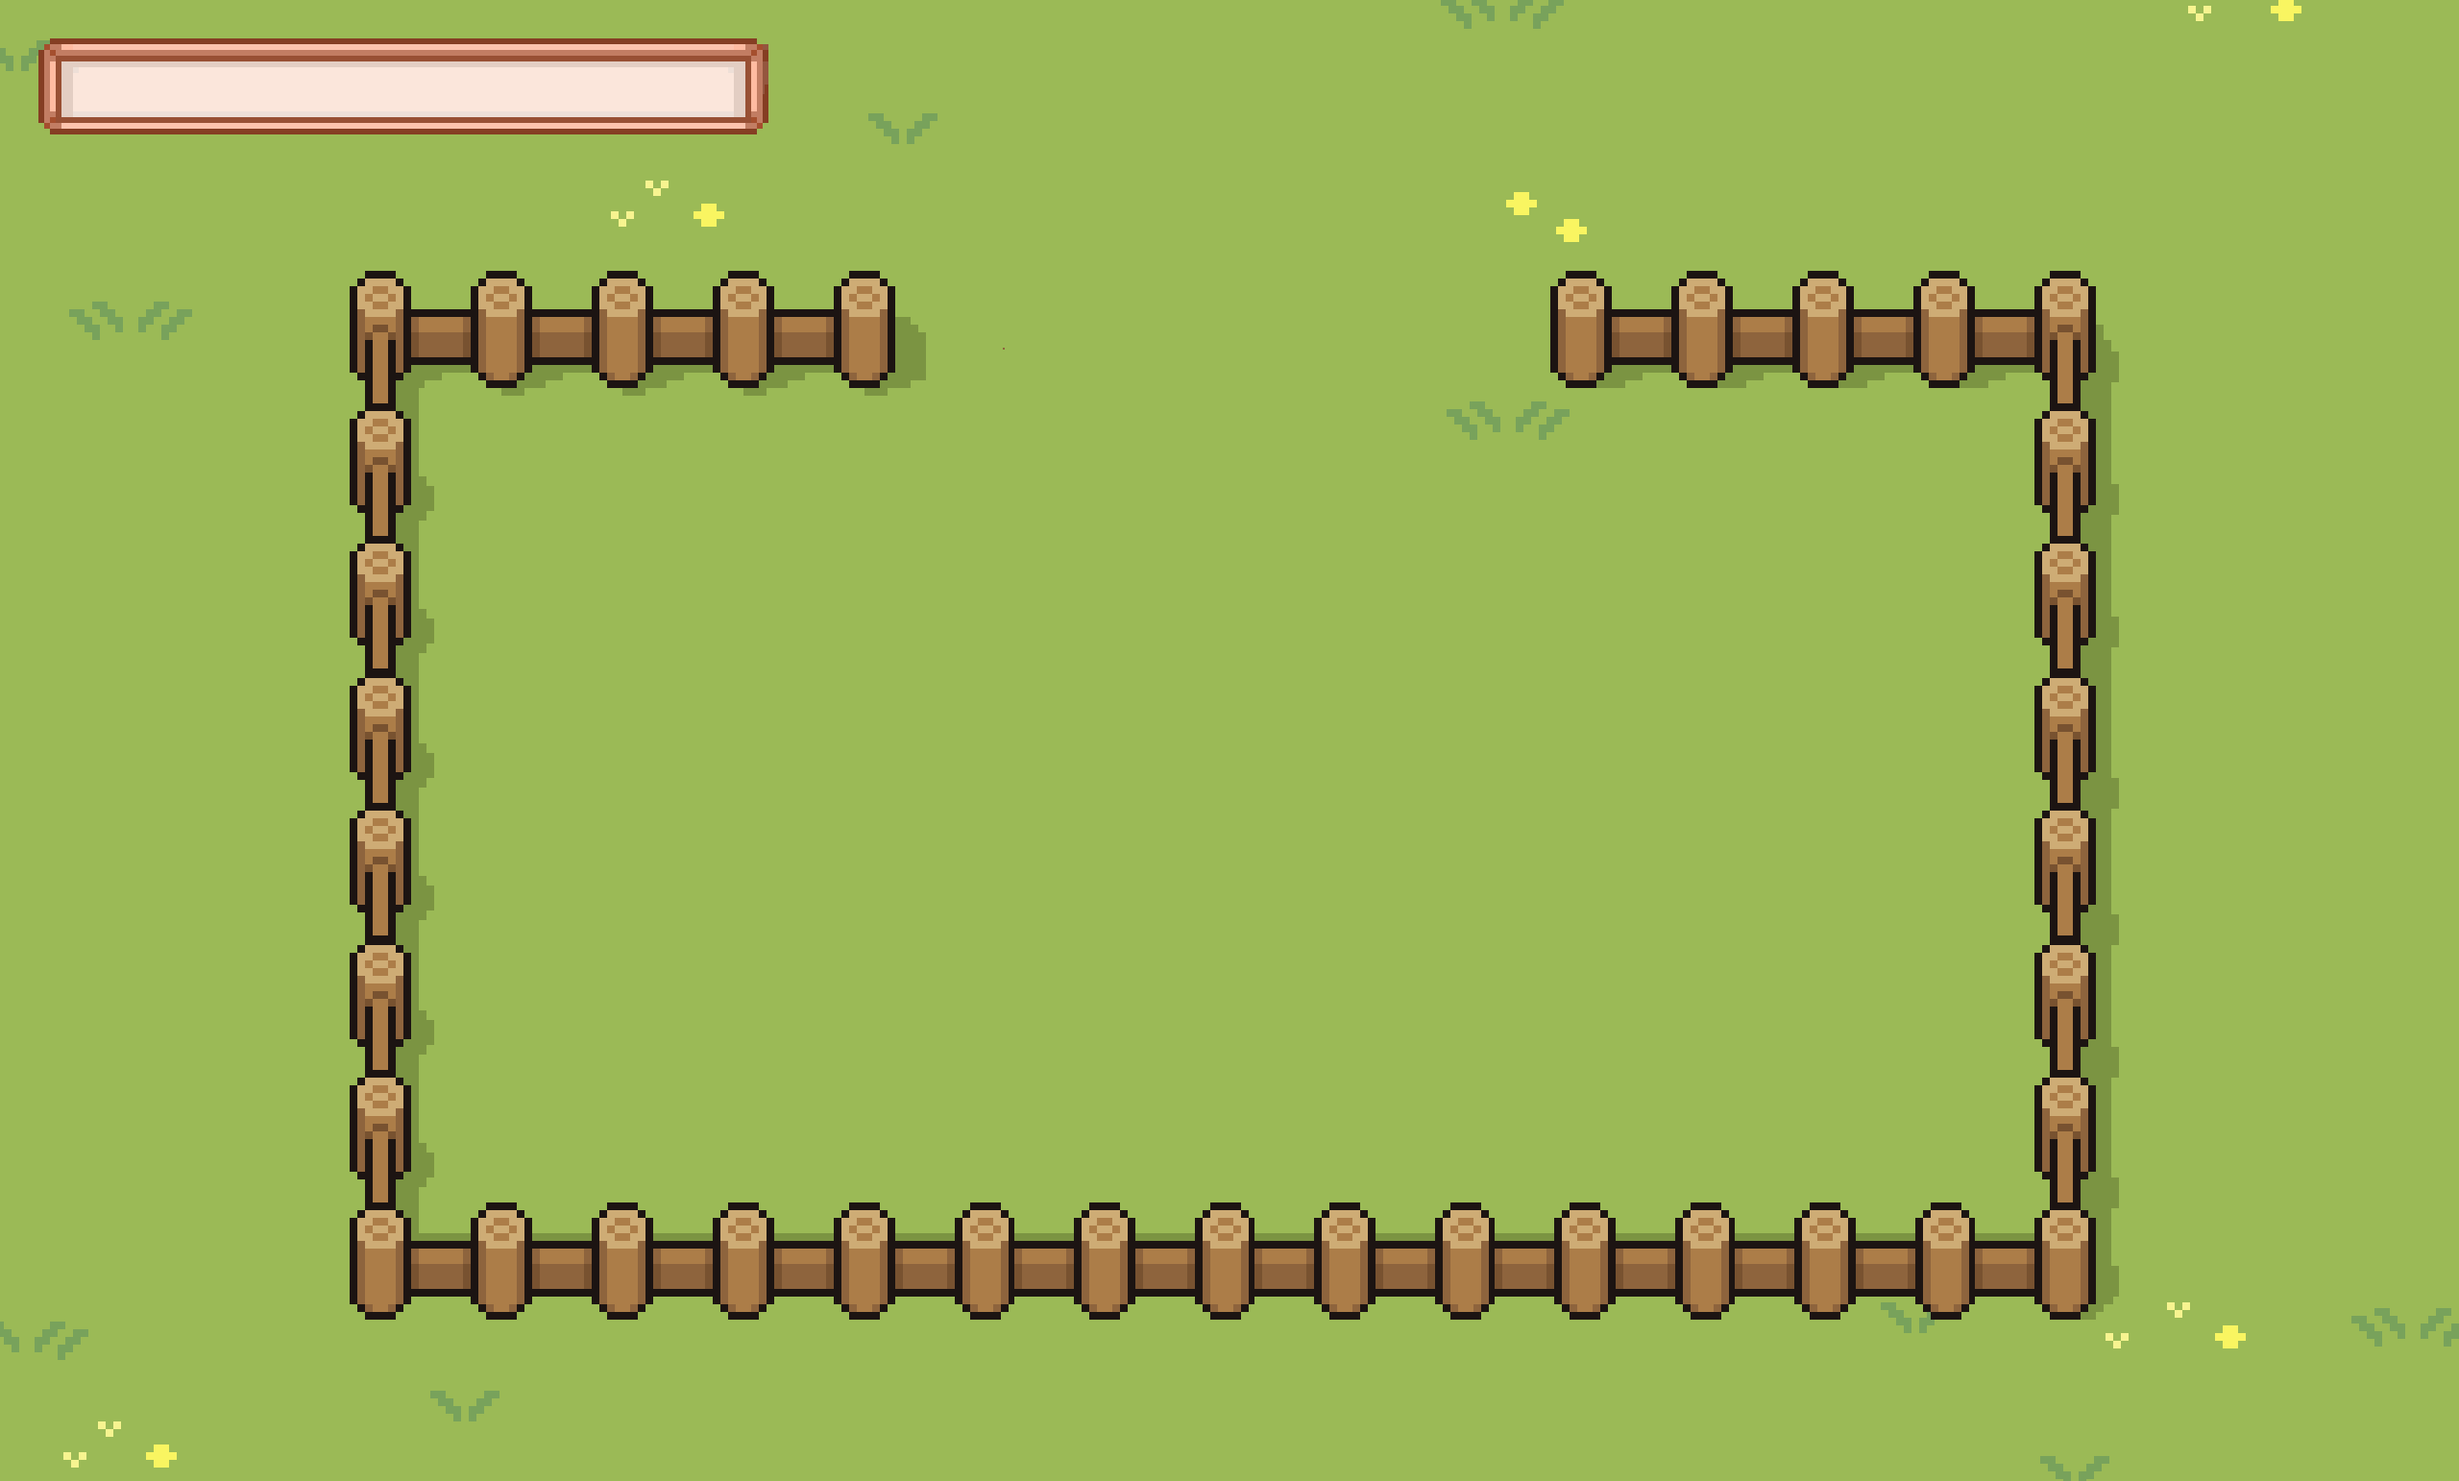
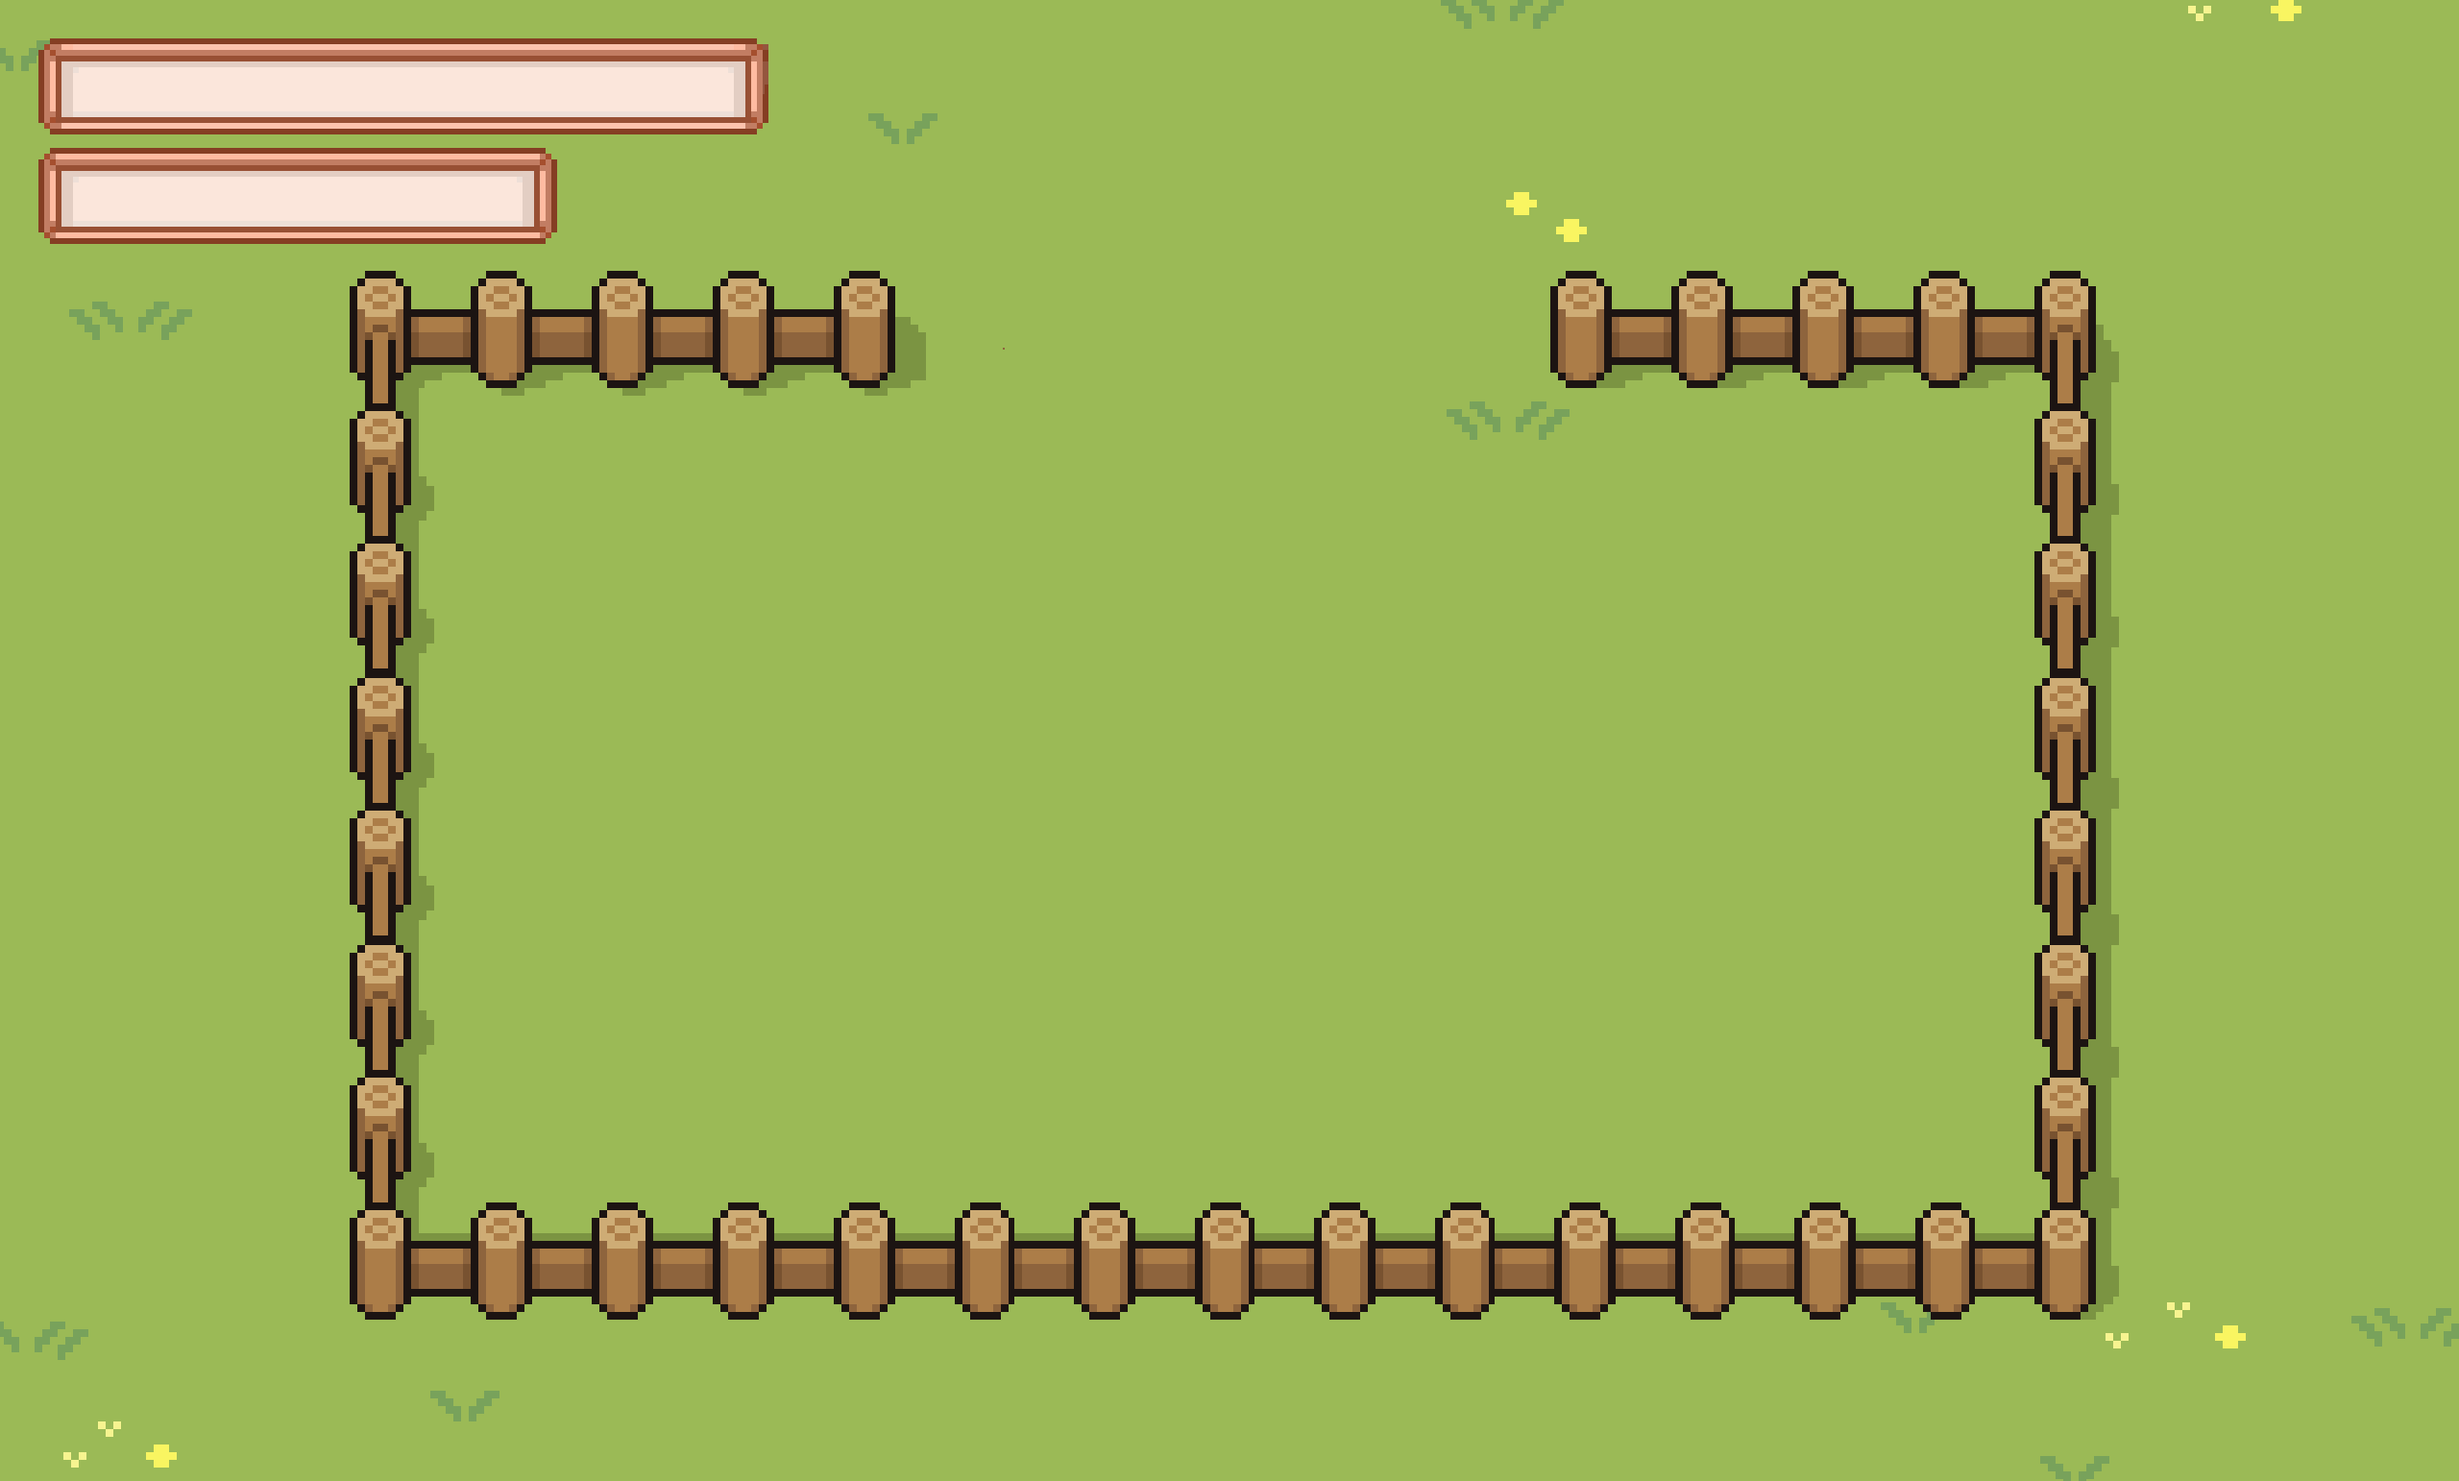
Placed border for farmer rank, level, and exp.

Changed region(s): [[0.0, 0.0934, 0.25, 0.1868], [0.2812, 0.1245, 0.3125, 0.1556]]

diff --git a/MainView.java b/MainView.java
@@ -6,8 +6,8 @@ import java.io.InputStream;
 
 public class MainView {
     private JFrame mainFrame;
-    private JLabel farmerLbl, levelLbl, expLbl, daysLbl, coinsLbl;
-    private JLabel bgLbl, feedbackLbl;
+    private JLabel bgLbl, farmerLbl, feedbackLbl;
+    private JLabel levelLbl, typeLbl, expLbl, daysLbl, coinsLbl;
     private JPanel farmPanel, menuPanel, toolPanel;
     private JButton sleepBtn, plantBtn, lvlBtn, exitBtn;
     private JButton plowBtn, waterBtn, fertilizerBtn, pickaxeBtn, shovelBtn;
@@ -43,33 +43,41 @@ public class MainView {
         this.farmerLbl.setIcon(farmerIcon);
         this.farmerLbl.setBounds(565,50, 160, 160);
 
-        // Sets farmer level status
-        this.levelLbl = new JLabel("Farmer | Lvl. 0");
+        // Sets farmer rank
+        this.typeLbl = new JLabel("Distinguished Farmer");
+        this.typeLbl.setForeground(new Color(0x96584F));
+        this.typeLbl.setBounds(45, 26, 380, 50);
+
+        try {
+            InputStream is = MainView.class.getResourceAsStream("assets/Minecraft.ttf");
+            Font font = Font.createFont(Font.TRUETYPE_FONT, is);
+            typeLbl.setFont(font.deriveFont(Font.PLAIN, 19f));
+        }
+        catch(Exception e){}
+
+        // Sets farmer level
+        this.levelLbl = new JLabel("Lvl. 11");
         this.levelLbl.setForeground(new Color(0x96584F));
-        this.levelLbl.setBounds(45, 26, 380, 50);
+        this.levelLbl.setBounds(320, 26, 380, 50);
 
         try {
             InputStream is = MainView.class.getResourceAsStream("assets/Minecraft.ttf");
             Font font = Font.createFont(Font.TRUETYPE_FONT, is);
-            levelLbl.setFont(font.deriveFont(Font.PLAIN, 21f));
+            levelLbl.setFont(font.deriveFont(Font.PLAIN, 19f));
         }
         catch(Exception e){}
 
-        // Sets experience gained status
-        this.expLbl = new JLabel("  Exp. Gained: 0", JLabel.LEFT);
-        this.expLbl.setForeground(new Color(0xF5F8ED));
+        // Sets experience gained
+        this.expLbl = new JLabel("Exp. Gained: 69");
+        this.expLbl.setForeground(new Color(0x96584F));
+        this.expLbl.setBounds(45, 86, 270, 50);
 
         try {
             InputStream is = MainView.class.getResourceAsStream("assets/Minecraft.ttf");
             Font font = Font.createFont(Font.TRUETYPE_FONT, is);
-            expLbl.setFont(font.deriveFont(Font.PLAIN, 21f));
+            expLbl.setFont(font.deriveFont(Font.PLAIN, 19f));
         }
         catch(Exception e){}
-
-        this.expLbl.setBackground(new Color(0xDDB88A));
-        this.expLbl.setOpaque(true);
-        this.expLbl.setBorder(border);
-        this.expLbl.setBounds(20, 75, 270, 50);
 
         // Sets number of days passed
         this.daysLbl = new JLabel("Days Passed: 1  ", JLabel.RIGHT);
@@ -160,6 +168,7 @@ public class MainView {
 
         // Places components in the frame
         this.mainFrame.add(this.farmerLbl);
+        this.mainFrame.add(this.typeLbl);
         this.mainFrame.add(this.levelLbl);
         this.mainFrame.add(this.expLbl);
         this.mainFrame.add(this.daysLbl);
